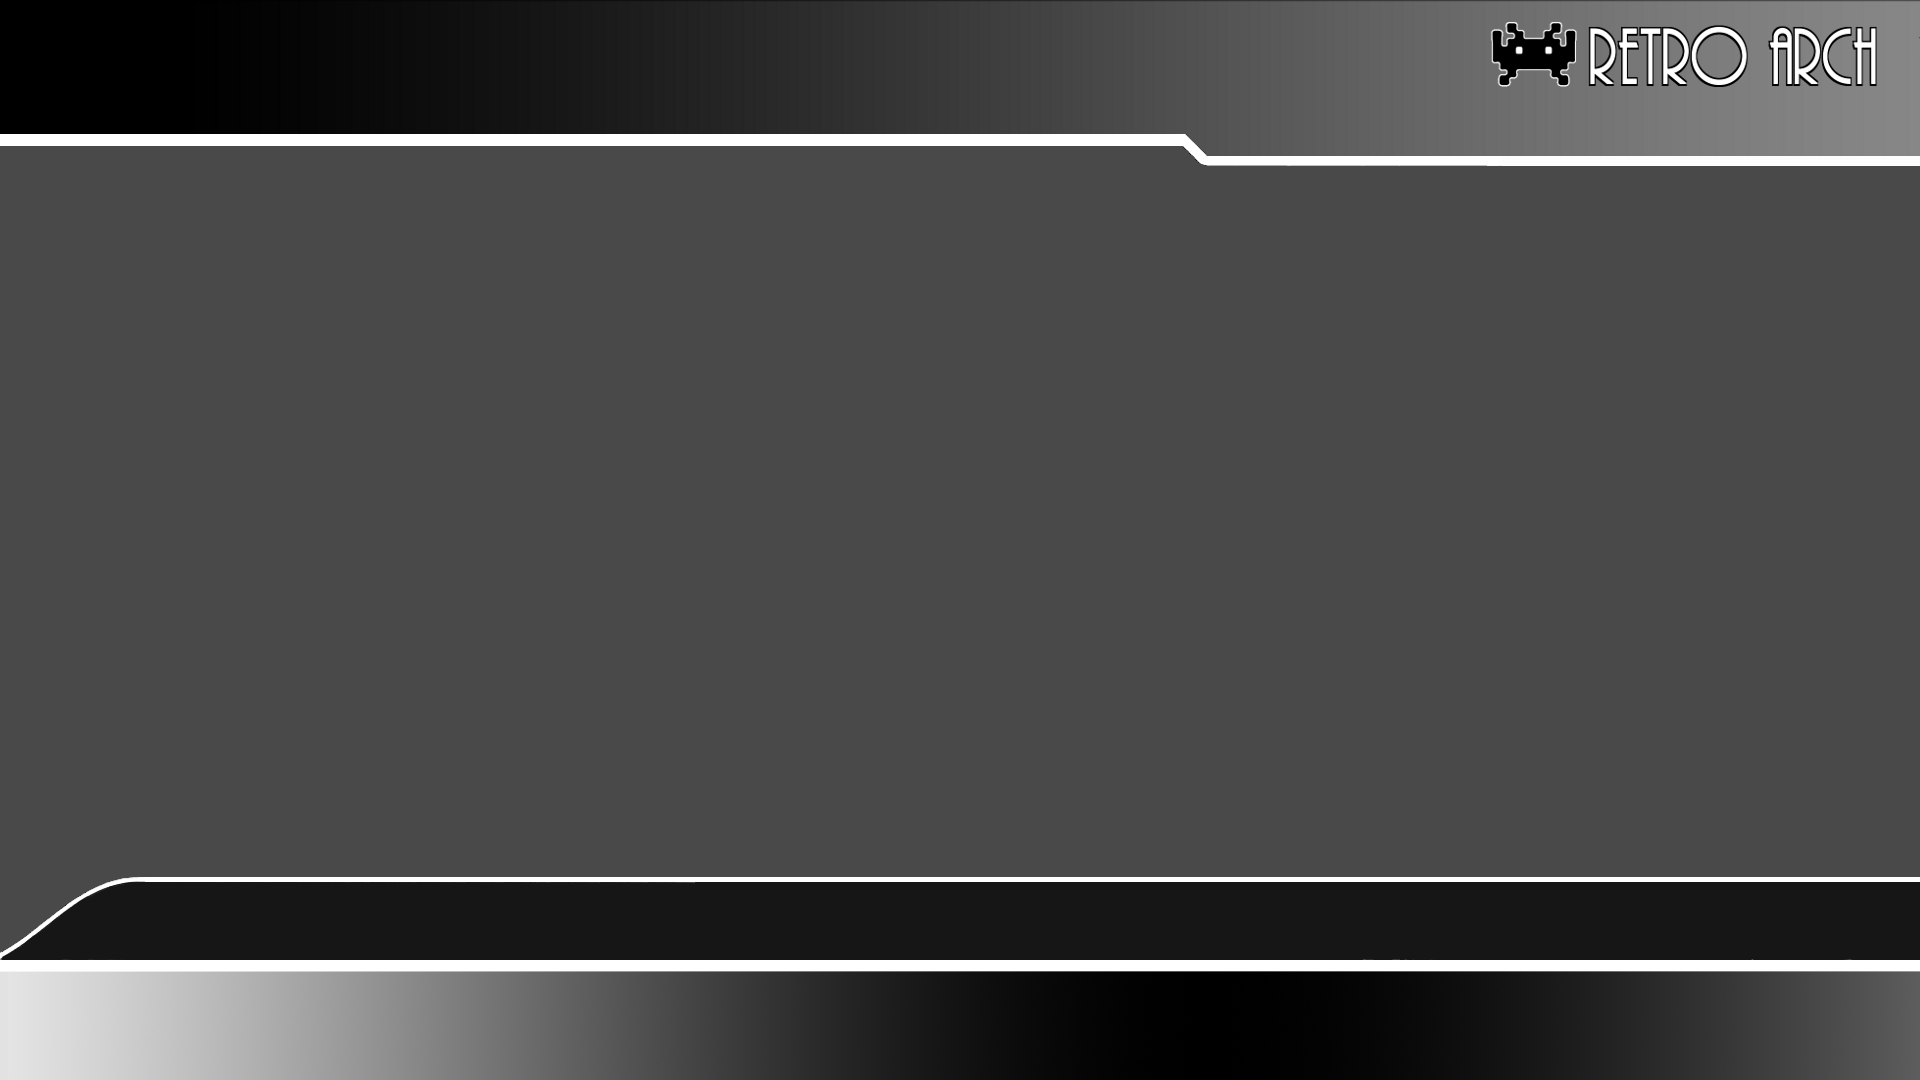
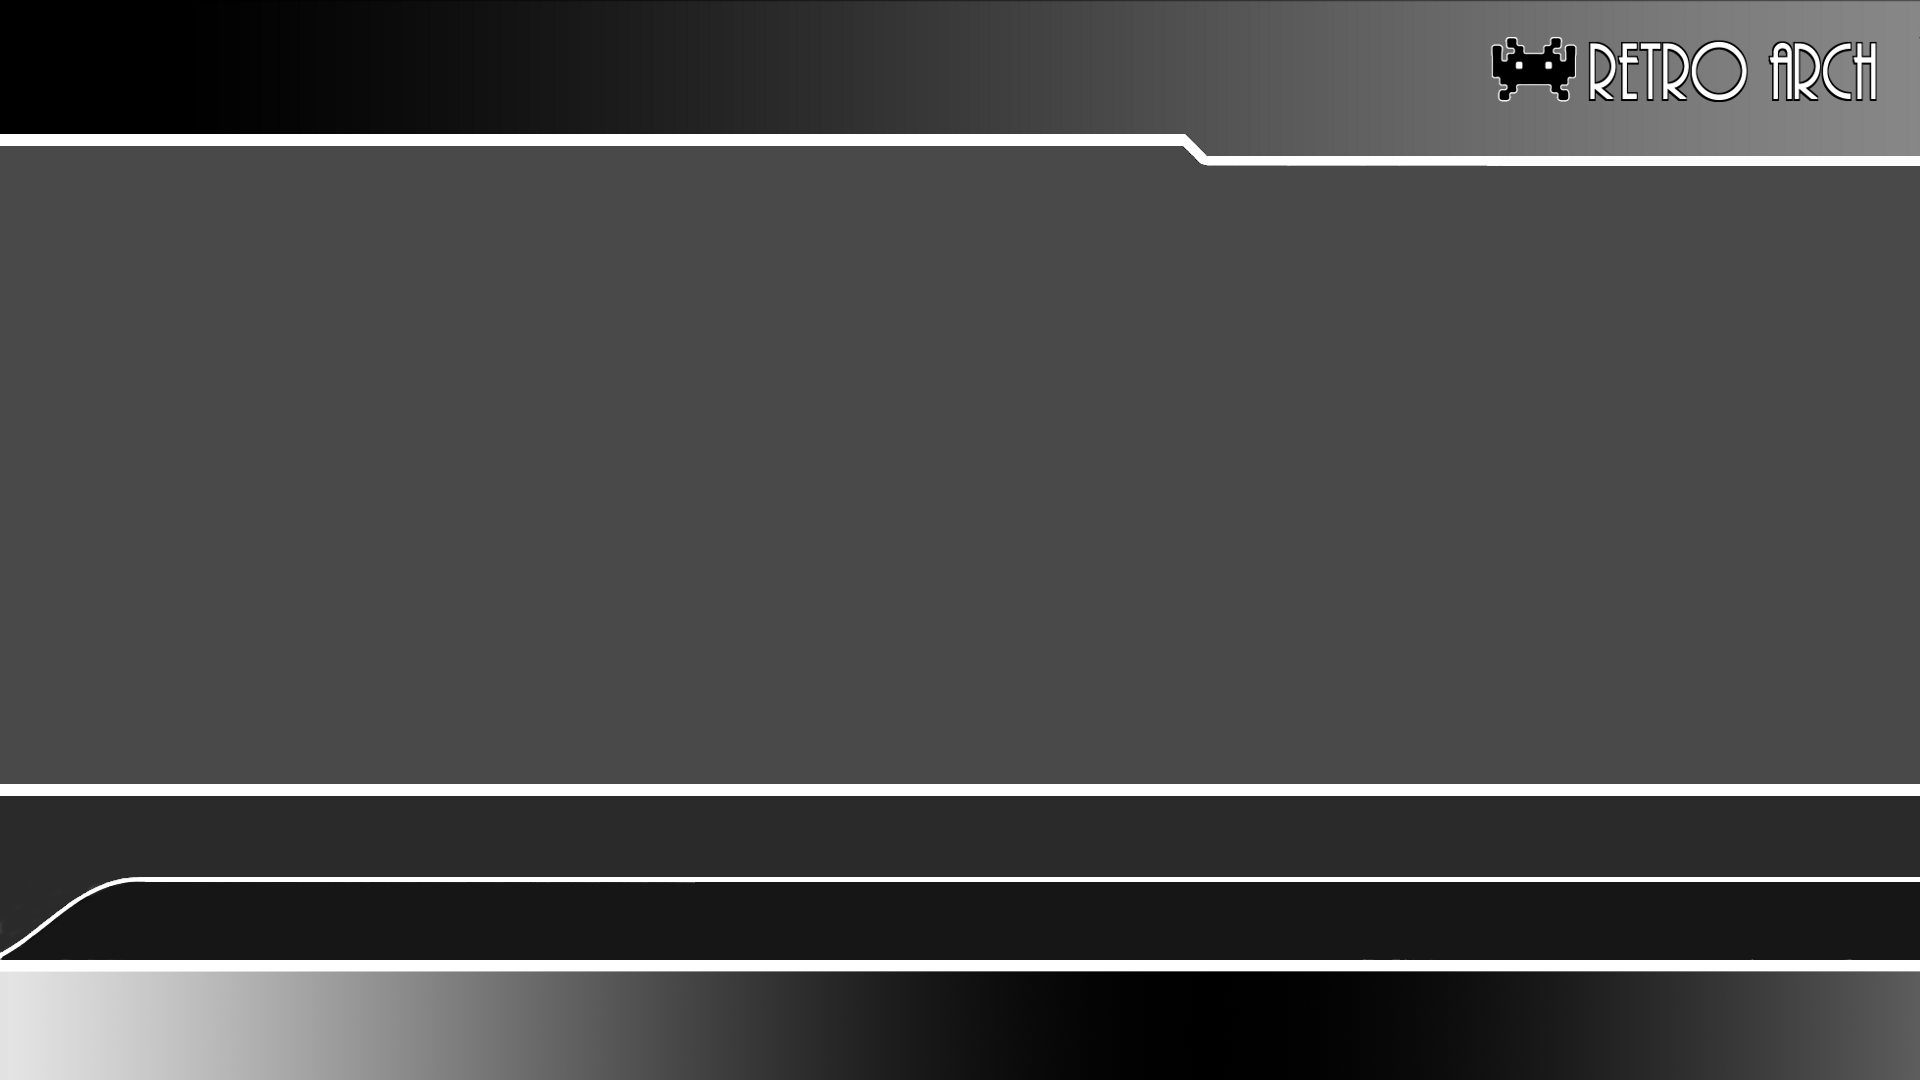
(PS3) Change background to accomodate for message queue buffer

Changed region(s): [[0.0, 0.7028, 1.0, 0.8861], [0.7812, 0.0, 1.0, 0.0917]]

diff --git a/ps3/frontend/menu.c b/ps3/frontend/menu.c
@@ -1694,10 +1694,10 @@ static void ingame_menu_resize(void)
 {
    gl_t * gl = driver.video_data;
 
-   float x_position = 0.3f;
+   float x_position = 0.09f;
    float font_size = 1.1f;
-   float ypos = 0.19f;
-   float ypos_increment = 0.04f;
+   float ypos = 0.16f;
+   float ypos_increment = 0.035f;
 
    g_console.aspect_ratio_index = ASPECT_RATIO_CUSTOM;
    gfx_ctx_set_aspect_ratio(NULL, g_console.aspect_ratio_index);
@@ -1816,10 +1816,10 @@ static void ingame_menu(void)
    gl_t * gl = driver.video_data;
    menu *menu_obj = &menuStack[menuStackindex];
 
-   float x_position = 0.3f;
+   float x_position = 0.09f;
    float font_size = 1.1f;
-   float ypos = 0.19f;
-   float ypos_increment = 0.04f;
+   float ypos = 0.16f;
+   float ypos_increment = 0.035f;
 
    for(int i = 0; i < MENU_ITEM_LAST; i++)
       menuitem_colors[i] = GREEN;
